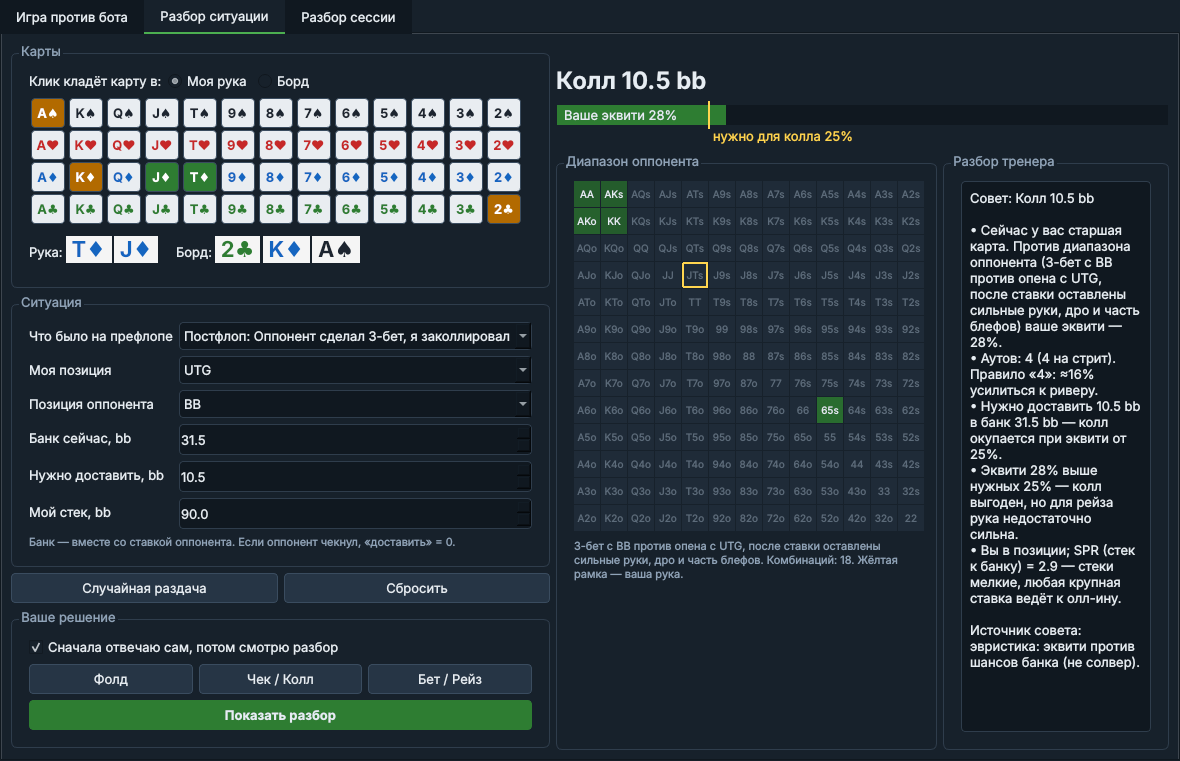
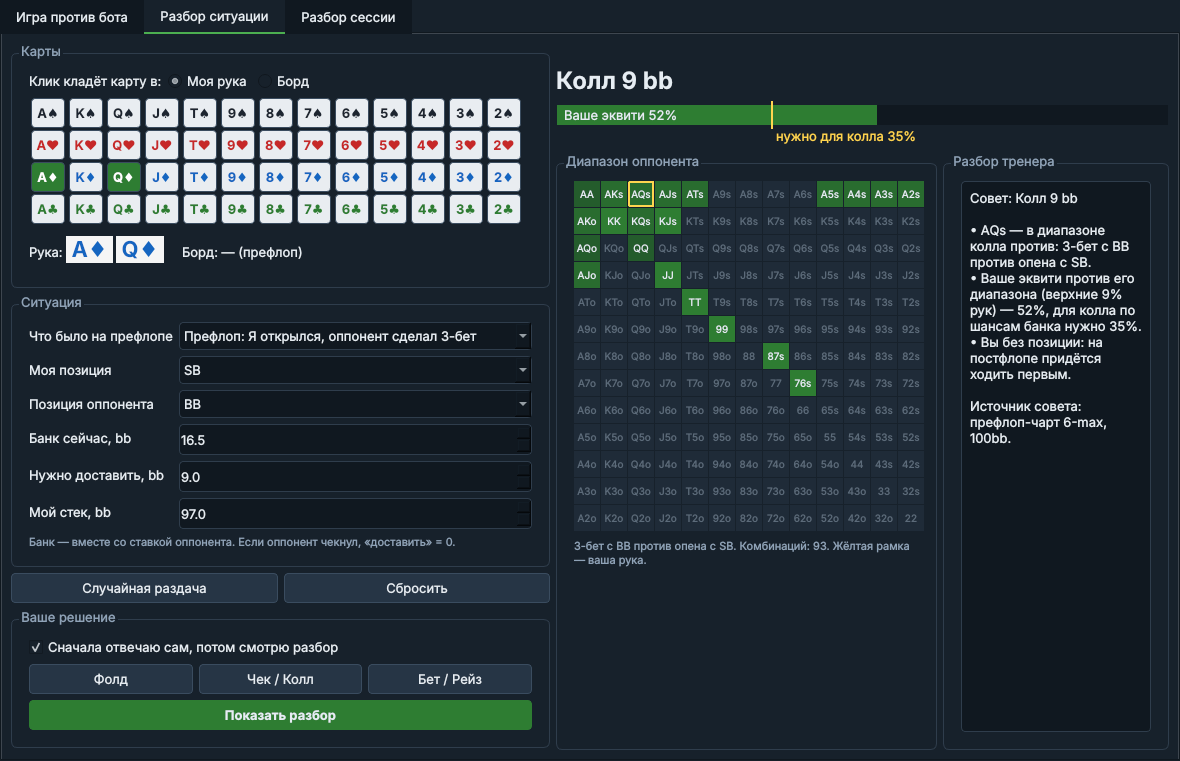
Do not count board-pair two pair as outs
Claude-Session: https://claude.ai/code/session_018DvtWKgzrJwdEuSB9Lf9Ab

diff --git a/poker_coach/calc.py b/poker_coach/calc.py
@@ -71,6 +71,7 @@ def outs(hero, board) -> dict[str, list[str]]:
     cur = _rank(hero + board)
     hero_ranks = {c.rank for c in hero}
     top_board = max(c.rank for c in board)
+    board_paired = len({c.rank for c in board}) < len(board)
     res: dict[str, list[str]] = {}
     for card in eval7.Deck().cards:
         if card in hero or card in board:
@@ -83,6 +84,8 @@ def outs(hero, board) -> dict[str, list[str]]:
             continue
         if name == "Pair" and card.rank < top_board:
             continue
+        if name == "Two Pair" and board_paired and card.rank < top_board:
+            continue          # «две пары» за счёт пары на борде — слабое усиление, аутом не считаем
         res.setdefault(OUT_RU[name], []).append(str(card))
     return res
 
